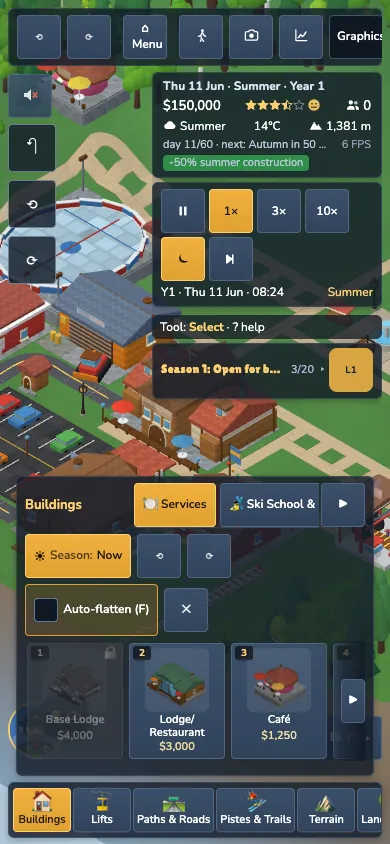
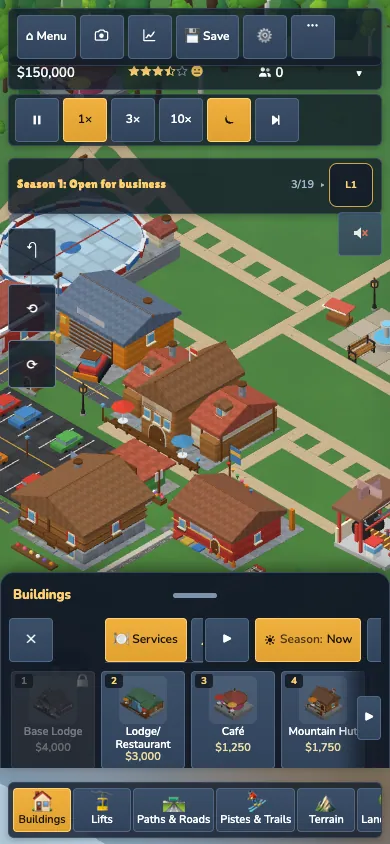
Release 0.3.3: phones show the map (M7.5) release prep, guide, screenshots, devlog entry
Version bump, CHANGELOG [0.3.3] with five Highlights (+ whats-new), THIRD_PARTY_NOTICES, release.md
with the real numbers, devlog intro, the Touch & tablets guide page with new phone screenshots,
og cards.

diff --git a/src/config/whatsNew.generated.ts b/src/config/whatsNew.generated.ts
@@ -3,6 +3,17 @@ import type { WhatsNewEntry } from './whatsNew';
 
 export const WHATS_NEW: readonly WhatsNewEntry[] = [
   {
+    "version": "0.3.3",
+    "date": "2026-11-02",
+    "highlights": [
+      "Phones show the map: drawers are small bottom sheets with a grab bar. They open at a low peek, drag up for more, and fold to the bar once you pick a…",
+      "A one-row top bar with a ... button for the rest, a one-line HUD strip (money, stars, guests) with an arrow for the date and weather, and one row of…",
+      "While you build or paint, the goals, news and Rudi chips step aside; while you drag the map the cards fade out and return when you let go.",
+      "Inspectors, Rudi's advice and the news list are sheets too: first lines at a glance, pull up for the rest. Toasts are small, one at a time, above…",
+      "Landscape phones get a side sheet; tablets keep their drawers, capped at about 40 % of the height. The map is at least half the screen in every…"
+    ]
+  },
+  {
     "version": "0.3.2",
     "date": "2026-11-01",
     "highlights": [
@@ -23,18 +34,6 @@ export const WHATS_NEW: readonly WhatsNewEntry[] = [
       "The same words everywhere: every building says what it needs in one order (\"a footpath, road, hiking trail or piste next to it\") on the card, the…",
       "A new Building reference in the guide lists every building with price, upkeep, what connects it, where it may stand, its season and when it unlocks…",
       "The Mountain Hut and the Après-Ski Bar finally have an icon and a description in the Buildings drawer."
-    ]
-  },
-  {
-    "version": "0.3.0",
-    "date": "2026-10-31",
-    "highlights": [
-      "Mountain concerts: a summer Mountain Concert (1-10 September) and a winter Snow Concert (1-15 March), booked next to the Summer Music Festival once…",
-      "A real stage with truss, speakers and a crowd near your best viewpoint, lit by soft light cones that sway at night, with a very quiet band and crowd…",
-      "Phase 6 in one line: dig rivers, build a campground, a petting zoo, quads, rafting and fishing, two hotels with a steaming pool, sleighs, snowshoes…",
-      "New guests for every season: mountain bikers, anglers, seniors, school classes, snowboarders and ski tourers, each with a campaign to match.",
-      "Backcountry routes with an avalanche danger from 1 to 5, and bridges and level crossings that make the valley work.",
-      "The player guide and the landing page were re-read end to end for the new content."
     ]
   }
 ];

diff --git a/site/index.html b/site/index.html
@@ -76,7 +76,7 @@
     <li>Spring skiing high up while the valley hikes.</li>
   </ul></div>
   <div><h2>Things I’m still fixing</h2><ul>
-    <li>Phones work but feel cramped. Tablets are better.</li>
+    <li>Phones show the map now (sheets instead of panels), but I have only tried them on an emulated phone. Tablets are better.</li>
     <li>Pistes can still be painted over a stream, which they should not.</li>
     <li>Prices and upkeep get tuned between releases, so the money changes a little each time. The <a href="./devlog/">devlog</a> says when.</li>
     <li>Walk mode needs a mouse the browser can capture. If it misbehaves for you, please tell me on <a href="{{repo}}/issues">GitHub</a>.</li>

diff --git a/tests/config/whatsNew.test.ts b/tests/config/whatsNew.test.ts
@@ -59,5 +59,5 @@ describe('after-reload card', () => {
     const r = whatsNewOnLaunch('0.2.2', '0.2.4', L); expect(r.show.map((e) => e.version)).toEqual(['0.2.4', '0.2.3']); expect(r.store).toBe('0.2.4');
   });
   it('dev builds never show it', () => { expect(whatsNewOnLaunch('0.2.1', 'dev', L)).toEqual({ show: [], store: null }); });
-  it('bundled list is newest first', () => { expect(WHATS_NEW[0]!.version).toBe('0.3.2'); });
+  it('bundled list is newest first', () => { expect(WHATS_NEW[0]!.version).toBe('0.3.3'); });
 });

diff --git a/site/guide/touch.md b/site/guide/touch.md
@@ -1,13 +1,11 @@
 ---
 title: "Touch & tablets"
 order: 13
-summary: "Playing on a tablet or phone: gestures, the pan / paint toggle, two-step placement, on-screen controls and the touch setting."
+summary: "Playing on a tablet or phone: gestures, the pan / paint toggle, two-step placement, bottom sheets, on-screen controls and the touch setting."
 description: "Playing Slope Tycoon on a tablet or phone: touch gestures, the pan and paint toggle, two-step placement, on-screen controls and the touch setting."
-screenshots: [touch-phone-hud, touch-phone-place, touch-tablet]
+screenshots: [touch-phone-hud, touch-phone-place, touch-phone-ghost, touch-phone-land]
 ---
 Slope Tycoon is a desktop-first game, but it works with fingers too. A tablet is comfortable, a phone is playable. There is nothing to install or enable: on a touch screen the game switches itself on.
-
-{{fig:touch-tablet}}
 
 ## Gestures
 
@@ -31,7 +29,7 @@ Tools that you drag across the map (pistes, paths, roads, terrain, trees, ponds,
 
 On a touch screen nothing is built by accident. Tap where you want a building or a lift station: a ghost appears with its price (or the reason it is blocked) in the bar at the bottom. Move it with another tap, then confirm by tapping the ghost again or pressing **Place**. A lift works the same way: bottom station first, then top station. A long press cancels.
 
-{{fig:touch-phone-place}}
+{{fig:touch-phone-ghost}}
 
 ## On-screen controls
 
@@ -44,10 +42,33 @@ On a touch screen nothing is built by accident. Tap where you want a building or
 
 {{fig:touch-phone-hud}}
 
-Narrow or short screens get a compact layout: the top bar scrolls sideways, the goals card starts collapsed, the dock scrolls, and every button is at least 44 px. Drawers slide up over the map; on a landscape phone a drawer tucks away once you pick a card, and the **☰ options** button brings it back. The page never zooms, scrolls or pulls to refresh, and notches and home bars are respected.
+On a phone the map comes first, so the screen is built from small pieces:
+
+- **One-row top bar.** Menu, Photo, Statistics, Save and Settings stay; the **...** button opens a second row with Rotate, Walk, Graphics, Help and the rest.
+- **A one-line HUD.** Money, stars and guests on one line. The little arrow under the top bar expands the date, weather and season for a few seconds.
+- **One row of speed buttons**, and the goals card as a single row (tap it for the list).
+- **Toasts** are small and show one at a time, above the dock.
+- While you **drag the map** the cards fade out so you see everything, and they come back when you let go. While you **place, paint or build a lift** the goals, news and Rudi chips step aside.
+
+### Bottom sheets
+
+{{fig:touch-phone-place}}
+
+Drawers (Buildings, Lifts, Paths, Pistes, Terrain, Landscape, View, Finance, Operations, Marketing, Pricing), the inspector for a building or lift, Rudi's advice and the news list are **sheets** that rise from the bottom with a grab bar.
+
+- A sheet opens low, at its **peek** height: a row of cards or the first lines. **Drag the grab bar up** for half and full height, or tap it to toggle; a quick flick moves one step, dragging down folds it again.
+- A swipe **up on the content** grows the sheet first and then scrolls; a swipe **down** scrolls back to the top first and then folds the sheet. Swiping **sideways** scrolls the card row.
+- **Pick a card** and the sheet folds to its grab bar, so the ghost and the map are free. Tap or drag the grab bar (or a dock button) to bring the cards back. Each drawer remembers its own height.
+- Everything stays at least 44 px. With the keyboard the grab bar answers to the arrow keys, Home, End and Esc.
+
+### Landscape and tablets
+
+{{fig:touch-phone-land}}
+
+On a **landscape phone** the sheet is a **side sheet** on the right (the grab bar is on its left edge) and the cards wrap into a grid, so the map keeps the width. **Tablets** keep the normal drawers, capped at about 40 % of the screen height. The page never zooms, scrolls or pulls to refresh, and notches and home bars are respected.
 
 ## Turning it on or off
 
 **Settings → Accessibility → Touch controls**: *Auto* (default, follows your device), *On* or *Off*. Use *On* to try the touch layout with a mouse, and *Off* if a laptop with a touch screen should behave like a plain desktop.
 
-> [!NOTE] Touch has been tested with emulated fingers on a phone, a landscape phone and a tablet, not yet on many real devices. The feel of long presses and thumb reach may need tuning. Tell us what you find.
+> [!NOTE] Touch has been tested with emulated fingers on a phone, a landscape phone and a tablet, not yet on many real devices. The sheets, the peek height and thumb reach may need tuning. Tell us what you find.

diff --git a/docs/release.md b/docs/release.md
@@ -1,6 +1,28 @@
 # Release notes and checklist
 
-Current release: **0.3.2 (pre-release, never call it 1.0 until the owner says so)**. Per-release details: `CHANGELOG.md`.
+Current release: **0.3.3 (pre-release, never call it 1.0 until the owner says so)**. Per-release details: `CHANGELOG.md`.
+
+## 0.3.3 (2026-11-02, macOS, Node v22.23.4)
+
+M7.5 Mobile UI (`docs/mobile-ui.md`): phones show the map. A new `st-sheet` bottom / side sheet (peek / half / full, 44 px grab bar, fling, keyboard + ARIA, remembered height, passthrough where it does not apply) holds the dock drawers, the five inspectors, Rudi's advice and the news panel; one-row top bar with an overflow, a one-line HUD strip, an icon speed row, one-at-a-time toasts, tool-first (cards step aside) and fade-while-dragging; tablets keep drawers capped at about 40 %; desktop is pixel-identical. Release prep: version bump (package.json, lock, README, AGENTS.md, deploy.md, the `whatsNew` test), CHANGELOG `[0.3.3]` with five Highlights, `whats-new`, `licenses`, a devlog entry, the guide page *Touch & tablets* (sheets, phone layout, four phone screenshots: `touch-phone-hud`, `touch-phone-place`, `touch-phone-ghost`, `touch-phone-land`; `touch-phone-inspector` and a re-shot `touch-tablet` are gallery shots), `docs/playtest-m75.md`.
+
+| Check | Command | Result |
+|---|---|---|
+| Gate (run twice, after all edits) | `npm run typecheck && npm run lint && npm test && npm run build && npm run verify:pwa` | pass: 424 files passed, 1 skipped; 4421 tests passed, 43 skipped (new: `tests/ui-dom/sheet.test.ts` 20, `phoneLayout.test.ts` 8, 2 in `touchWireDrawer.test.ts`, `tests/render/touchDrag.test.ts` 2) |
+| Balance | `npm run test:balance` | 48 passed (no sim change) |
+| Perf | `npm run test:perf` | 28 files, 49 tests passed (alone) |
+| Shots | `npm run shot:suite` | 0 errors on all 17 shots |
+| Analytics | `npm run analytics:e2e` | OK |
+| Offline | `npm run offline:splash` | OK |
+| Sanity play | `npm run play:sanity` | 0 console errors, MaterialGuard 0 |
+| Stories | `phase6:sanity`, `summer:sanity`, `winter:sanity`, `winter:tours`, `backcountry:sanity` | all OK (save + reload identical, MaterialGuard 0, 0 console errors) |
+| Map visible (new) | `npm run mobile:audit` | all thresholds met at 390x844, 844x390 and 768x1024: default states 51-78 %, drawer at peek + tool active 57-78 %; before / after table in `docs/mobile-ui.md` |
+| Desktop unchanged (new) | `npm run desktop:diff` | 0 differing pixels in the six 1280x800 screens (HUD, Buildings / Landscape / Pricing drawers, Statistics, Settings) + the click check (a drawer's first card is the topmost element) |
+| Touch | `npm run touch:e2e -- --viewport phone` (full) | **211 / 211** (camera 11, placement 13, walk 22, ride-photo 17, lift 10, strokes 44, trails 21, drawers 15, ui 31, title 9, page 18). Landscape and tablet: camera, placement, strokes, drawers, ui, page all pass (land drawers 14, tablet drawers 15, ui 31 each, page 18). Not re-run on land / tablet: walk, ride-photo, lift, trails, title (untouched) |
+| Size | `npm run size` | 2907.0 kB raw / 1041.1 kB gzip (budget < 2048 kB gzip; +6.1 kB gzip over 0.3.2: 1035.0) |
+| Site | `npm run whats-new`, `npm run licenses`, `npm run docs:img`, `npm run site:og`, `npm run build:site && npm run site:check && npm run verify:site` | OK (98 screenshots, 8.0 MB of the 8 MB budget; 255 URLs crawled) |
+
+No goldens moved (UI only; no sim change). Bugs found by the new checks: the end-to-end run caught `pointer-events: none` on the sheet's passthrough layer, which the slotted content inherits (every desktop / tablet drawer was unclickable in the first draft; the pixel diff could not see it, so `desktop:diff` now also asserts a drawer's first card is the topmost element at its centre, and a unit test pins the CSS); the `page` touch group had been reading the sky canvas instead of the WebGL canvas since 0.3.2 (the scenario now uses `__slope.renderer.webgl.domElement`); `touch:e2e` kept its process alive for five minutes after printing the matrix (a pending timeout).
 
 ## 0.3.2 (2026-11-01, macOS, Node v22.23.4)
 

diff --git a/CHANGELOG.md b/CHANGELOG.md
@@ -4,9 +4,27 @@ All notable changes to Slope Tycoon. Format: [Keep a Changelog](https://keepacha
 
 ## [Unreleased]
 
+## [0.3.3] - 2026-11-02 (pre-release)
+
+The phone release (milestone M7.5): on a phone the panels used to cover the map. Drawers, inspectors and Rudi's advice are now bottom sheets that open small and stay out of the way, the top bar and the HUD are one row each, and the cards step aside while you build. Desktop looks exactly like 0.3.2 (checked pixel by pixel), tablets keep their drawers.
+
+### Highlights
+
+- Phones show the map: drawers are small bottom sheets with a grab bar. They open at a low peek, drag up for more, and fold to the bar once you pick a card, so the ghost stays visible.
+- A one-row top bar with a ... button for the rest, a one-line HUD strip (money, stars, guests) with an arrow for the date and weather, and one row of speed buttons.
+- While you build or paint, the goals, news and Rudi chips step aside; while you drag the map the cards fade out and return when you let go.
+- Inspectors, Rudi's advice and the news list are sheets too: first lines at a glance, pull up for the rest. Toasts are small, one at a time, above the dock.
+- Landscape phones get a side sheet; tablets keep their drawers, capped at about 40 % of the height. The map is at least half the screen in every default state.
+
 ### Changes
 
+- **`st-sheet`** (`src/ui/components/StSheet.ts`, `docs/mobile-ui.md`): a bottom / side sheet with peek, half and full snaps, a 44 px grab bar, fling and snap, scroll chaining with its content, keyboard (arrows, Home / End, Escape) and ARIA, a height remembered per sheet, safe-area insets and no animation under reduced motion. It is a plain passthrough wherever the phone media query does not match, so desktop and tablets are not touched. Used by the dock drawers, the five inspectors, Rudi's advice and the news panel.
+- **Phone layout** (`<= 520 px` wide or `<= 520 px` high): the top bar keeps Menu, Photo, Statistics, Save, Settings and a `...` overflow (Rotate, Walk, Graphics, `?`, Install, Offline); the HUD card is a one-line strip with a 44 px expander (folds back after 8 s); the speed control is one row of icons; the goals card is capped at about 22 % of the height when open; the tool status line is hidden; toasts show only the newest one, above the dock row.
+- **Tool-first and drag fade** (`html[data-toolfirst]`, `html[data-camdrag]`, `TouchController.onDrag`): cards hide while a placement, lift or paint tool is active and fade (opacity only, no layout shift) while a finger drags the map.
+- **Tablets** (521 to 1099 px wide): the drawers are capped at 40 to 44 % of the screen height.
+- **QA**: `npm run mobile:audit` (the map-visible share per panel and viewport at 390x844, 844x390 and 768x1024; asserts >= 50 % in every default state and >= 40 % with a drawer at peek and a tool active; the numbers are in `docs/mobile-ui.md`), `npm run desktop:diff` (the desktop UI at 1280x800 pixel by pixel before / after: 0 differing pixels), the touch end-to-end scenarios were updated for sheets (drawer "tucked away" = folded to its grab bar, a swipe up grows the sheet) and now pick the real map canvas (the sky canvas from 0.3.2 had made the `page` group read the wrong element). Real-device checklist: `docs/playtest-m75.md`.
 - **The black run is now an optional bonus goal** (owner request): *Open a black run* no longer blocks the *Regional name* chapter, so Level 6 and the goal chain no longer depend on painting a black piste. The chain is now 19 goals; the black run keeps its $3,000 grant as a bonus goal. Old saves load fine: a finished black run stays finished. See `docs/goals.md`.
+- **Docs and guide**: `docs/mobile-ui.md` (new), `docs/touch.md`, `docs/ui-kit.md`, AGENTS.md (the sheet rule), the guide page *Touch & tablets* (phone layout, sheets, new screenshots).
 
 ## [0.3.2] - 2026-11-01 (pre-release)
 

diff --git a/README.md b/README.md
@@ -5,9 +5,9 @@ through winter *and* summer. Three.js + TypeScript, no backend, no external asse
 
 [![Sponsor](https://img.shields.io/badge/Sponsor-%E2%99%A5-ea4aaa?logo=githubsponsors)](https://github.com/sponsors/maartenba)
 
-**Version 0.3.2** (pre-release)
+**Version 0.3.3** (pre-release)
 
-Status: pre-release (0.3.2) — playtest feedback welcome.
+Status: pre-release (0.3.3) — playtest feedback welcome.
 
 ## Features
 
@@ -34,7 +34,7 @@ Status: pre-release (0.3.2) — playtest feedback welcome.
 - **Scenarios**: six hand-made challenges (First Tracks, Family Valley, Powder Dreams, Summer Escape, Alpine Giant, Safe Slopes) with deadlines, objectives and bronze / silver / gold medals; your best results are kept on this device. Main menu > Scenarios (`docs/scenarios.md`). No sharing.
 - **Achievements & trophies**: 40 profile-wide achievements in three tiers with a trophy shelf (main menu / pause menu), quiet unlock toasts and 13 purely visual cosmetic rewards (building palettes, village bunting, photo frames, lift chair colours) chosen in Settings > Cosmetics. Kept on this device; no sharing (`docs/achievements.md`).
 - **Resort of the Year**: at the end of every in-game year a report shows your stats, awards (bronze / silver / gold against regional baselines), charts and a cover photo; past reports live in Finance > Reports and the image can be saved locally. No sharing (`docs/year-report.md`).
-- **Touch & tablets**: one-finger pan, pinch zoom, two-finger twist, a pan / paint toggle, two-step placement (tap, then tap again or Place), long-press cancel, two-finger-tap undo, on-screen controls for walk / ride / photo, 44 px targets and a compact layout; Settings > Accessibility > Touch controls Auto / On / Off (`docs/touch.md`).
+- **Touch & tablets**: one-finger pan, pinch zoom, two-finger twist, a pan / paint toggle, two-step placement (tap, then tap again or Place), long-press cancel, two-finger-tap undo, on-screen controls for walk / ride / photo, 44 px targets, and on phones **bottom sheets** (`st-sheet`) so the map stays visible: a one-row top bar, a one-line HUD, inspectors and drawers that open at a low peek (`docs/mobile-ui.md`); Settings > Accessibility > Touch controls Auto / On / Off (`docs/touch.md`).
 - **Statistics, regions and accessibility**: press **I** for charts of guests, cash, rating and revenue (`docs/stats.md`); every seed has a region name and peaks; a colour-blind-safe (Okabe-Ito) palette; reduced motion and text size.
 - **Landscape & drawers**: the Landscape drawer (ponds, trees, boulders, decor; `docs/landscaping.md`) and redesigned Terrain / View drawers with cards and hover info; everything can be built in any season.
 - **Comfort, rails and bridges**: guests get an urge and walk to **Toilets** (Facilities rating bar, `docs/comfort.md`); footpaths and roads cross rail at **level crossings** (barriers, bell, guests wait) or over a **footbridge** (`docs/crossings.md`); **bridges** span streams, ponds and gaps for footpaths, hiking, MTB and roads (`docs/bridges.md`); trails can serve buildings (`docs/trails-access.md`); four new campaigns incl. **Come by Train** (`docs/marketing-pricing.md`).

diff --git a/docs/deploy.md b/docs/deploy.md
@@ -88,7 +88,7 @@ Nothing has been pushed or created on GitHub yet. The local clone already has `o
 4. Actions → wait for **Deploy to GitHub Pages** (build, then deploy). URLs: site <https://slopetycoon.com/>, guide `.../guide/`, game `.../play/`.
 5. Repo "About": description (e.g. "Cosy ski-resort tycoon in the browser: three.js, procedural, installable PWA"), website = the Pages URL, topics such as `three-js`, `typescript`, `game`, `tycoon`, `pwa`, `ski`.
 6. Optional custom domain: set `SITE_CNAME` as a repository variable/env for the build step, DNS CNAME to `maartenba.github.io`, enable Enforce HTTPS (see above). Done for `slopetycoon.com`.
-7. First release (when you want it): `npm run release -- ...` (see `scripts/release.ts`) then `git push origin main v0.3.2`. After the tag exists add compare links to `CHANGELOG.md` (`[Unreleased]: https://github.com/maartenba/SlopeTycoon/compare/v0.1.0...HEAD`); none exist yet because there are no tags.
+7. First release (when you want it): `npm run release -- ...` (see `scripts/release.ts`) then `git push origin main v0.3.3`. After the tag exists add compare links to `CHANGELOG.md` (`[Unreleased]: https://github.com/maartenba/SlopeTycoon/compare/v0.1.0...HEAD`); none exist yet because there are no tags.
 
 ### Double-check before going public
 * **No secrets**: `.env*` is git-ignored; run `git log -p | grep -iE "api[_-]?key|secret|token|password"` and scan the output; nothing in `src/` or `public/` should contain credentials.
@@ -103,12 +103,12 @@ Nothing has been pushed or created on GitHub yet. The local clone already has `o
 ```bash
 # Option A: one fresh root commit (drops all old history)
 git checkout --orphan clean-main
-git add -A && git commit -m "Slope Tycoon 0.3.2"
+git add -A && git commit -m "Slope Tycoon 0.3.3"
 git branch -M clean-main main          # replaces old main (backup first!)
 git reflog expire --expire=now --all && git gc --prune=now --aggressive
 du -sh .git
 
 # Option B: keep history, squash into the first commit's tree state
-#   git reset --soft $(git rev-list --max-parents=0 HEAD) && git commit --amend -m "Slope Tycoon 0.3.2"
+#   git reset --soft $(git rev-list --max-parents=0 HEAD) && git commit --amend -m "Slope Tycoon 0.3.3"
 #   (this also collapses everything into a single commit; the old blobs go away after the gc above)
 ```

diff --git a/site/guide/troubleshooting.md b/site/guide/troubleshooting.md
@@ -45,7 +45,7 @@ Saves live in browser storage. Clearing site data, using private windows or swit
 
 ## Can I use it on a phone?
 
-Yes. The game has touch support (gestures, a pan / paint toggle, two-step placement and on-screen controls for walk, ride and photo mode) that switches on by itself on a touch screen. Tablets work well; phones are playable but cramped. If it does not switch on (or switches on by mistake), see Settings → Accessibility → Touch controls. Details in [Touch & tablets](page:touch). Desktop with a mouse is still the most comfortable.
+Yes. The game has touch support (gestures, a pan / paint toggle, two-step placement and on-screen controls for walk, ride and photo mode) that switches on by itself on a touch screen. Tablets work well; on a phone the drawers are small bottom sheets so the map stays visible. If it does not switch on (or switches on by mistake), see Settings → Accessibility → Touch controls. Details in [Touch & tablets](page:touch). Desktop with a mouse is still the most comfortable.
 
 ## Is anything tracked or uploaded?
 

diff --git a/site/landing/ski-resort-tycoon.md b/site/landing/ski-resort-tycoon.md
@@ -20,7 +20,7 @@ faq:
   - q: "How long is a game?"
     a: "A day lasts 150 seconds at normal speed and a year has twelve months, so a full year is about half an hour at 1x. Speeds go up to 10x, and you can pause while you build."
   - q: "Does it work on a tablet or phone?"
-    a: "Yes, with touch controls, but it is best on a desktop with a mouse. Tablets are comfortable and phones are playable. See [Touch & tablets](page:touch)."
+    a: "Yes, with touch controls, but it is best on a desktop with a mouse. Tablets are comfortable and phones are playable (drawers are small bottom sheets so the map stays visible). See [Touch & tablets](page:touch)."
   - q: "Where are my saves kept?"
     a: "In your browser's storage on your device. You can export a .slope file as a backup. Nothing is uploaded. See [Saves & offline](page:saves)."
 ---

diff --git a/THIRD_PARTY_NOTICES.md b/THIRD_PARTY_NOTICES.md
@@ -1,6 +1,6 @@
 # Third-party notices
 
-Generated by `npm run licenses` (scripts/licenses.ts). Slope Tycoon 0.3.2 itself is proprietary, all rights reserved (see `LICENSE`); the components below keep their own licences. All game art, sound and models are generated procedurally in code; no third-party image, audio or model assets are bundled.
+Generated by `npm run licenses` (scripts/licenses.ts). Slope Tycoon 0.3.3 itself is proprietary, all rights reserved (see `LICENSE`); the components below keep their own licences. All game art, sound and models are generated procedurally in code; no third-party image, audio or model assets are bundled.
 
 ## Bundled in the game (runtime)
 
